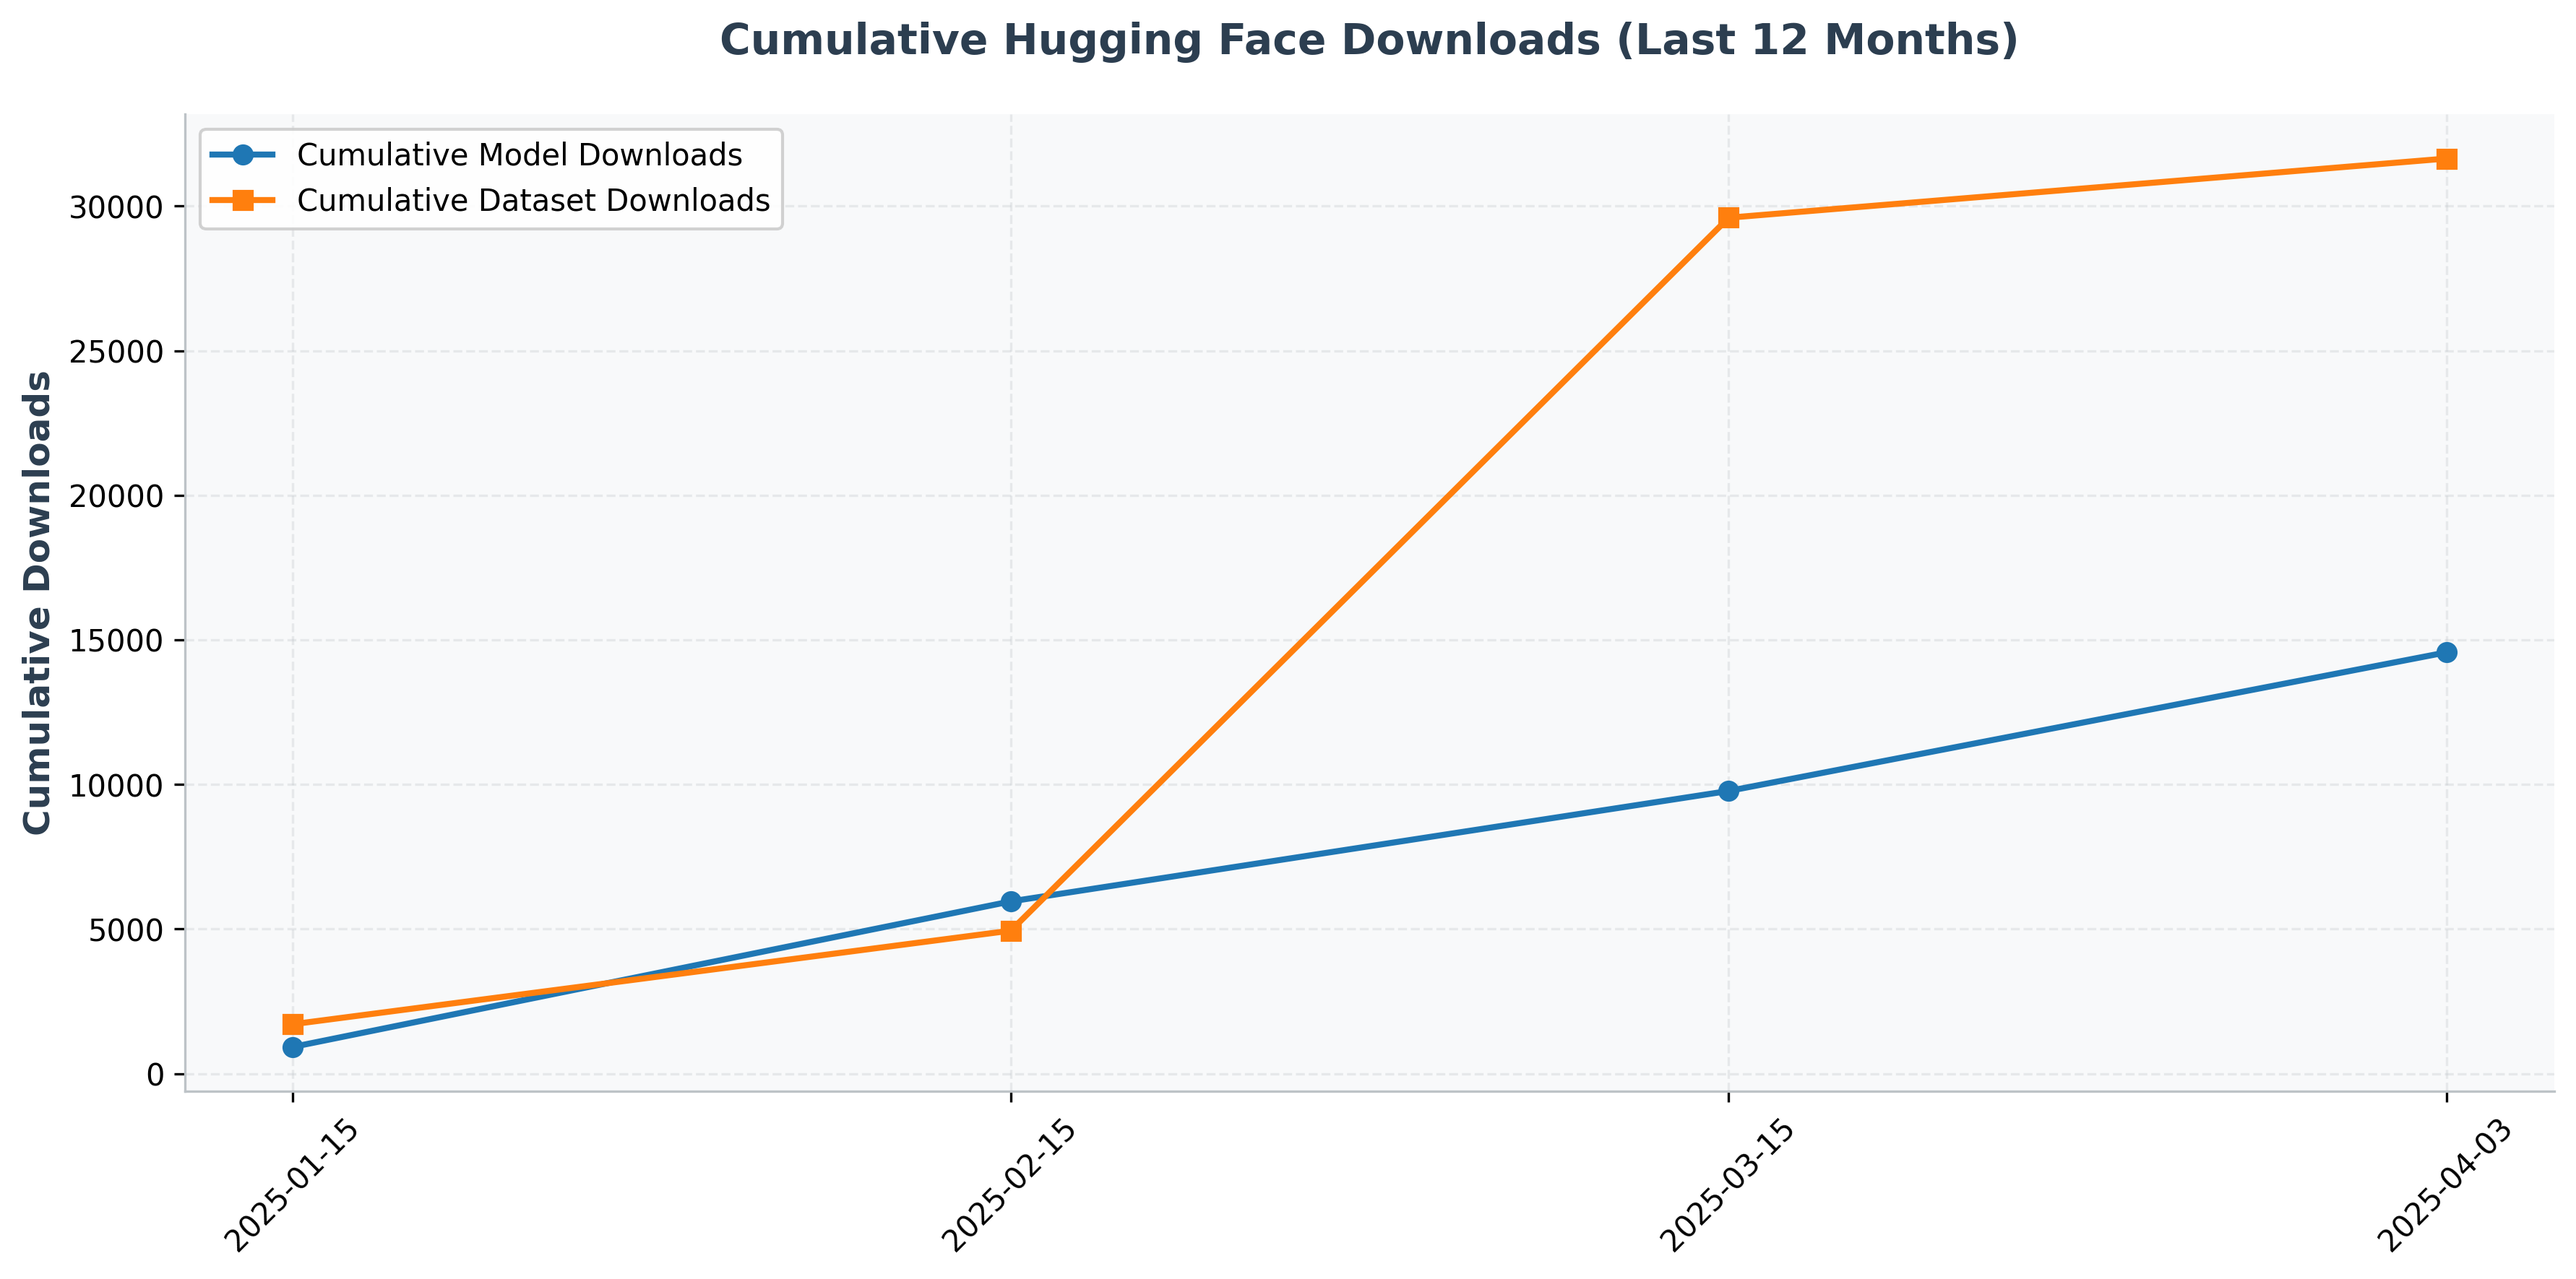
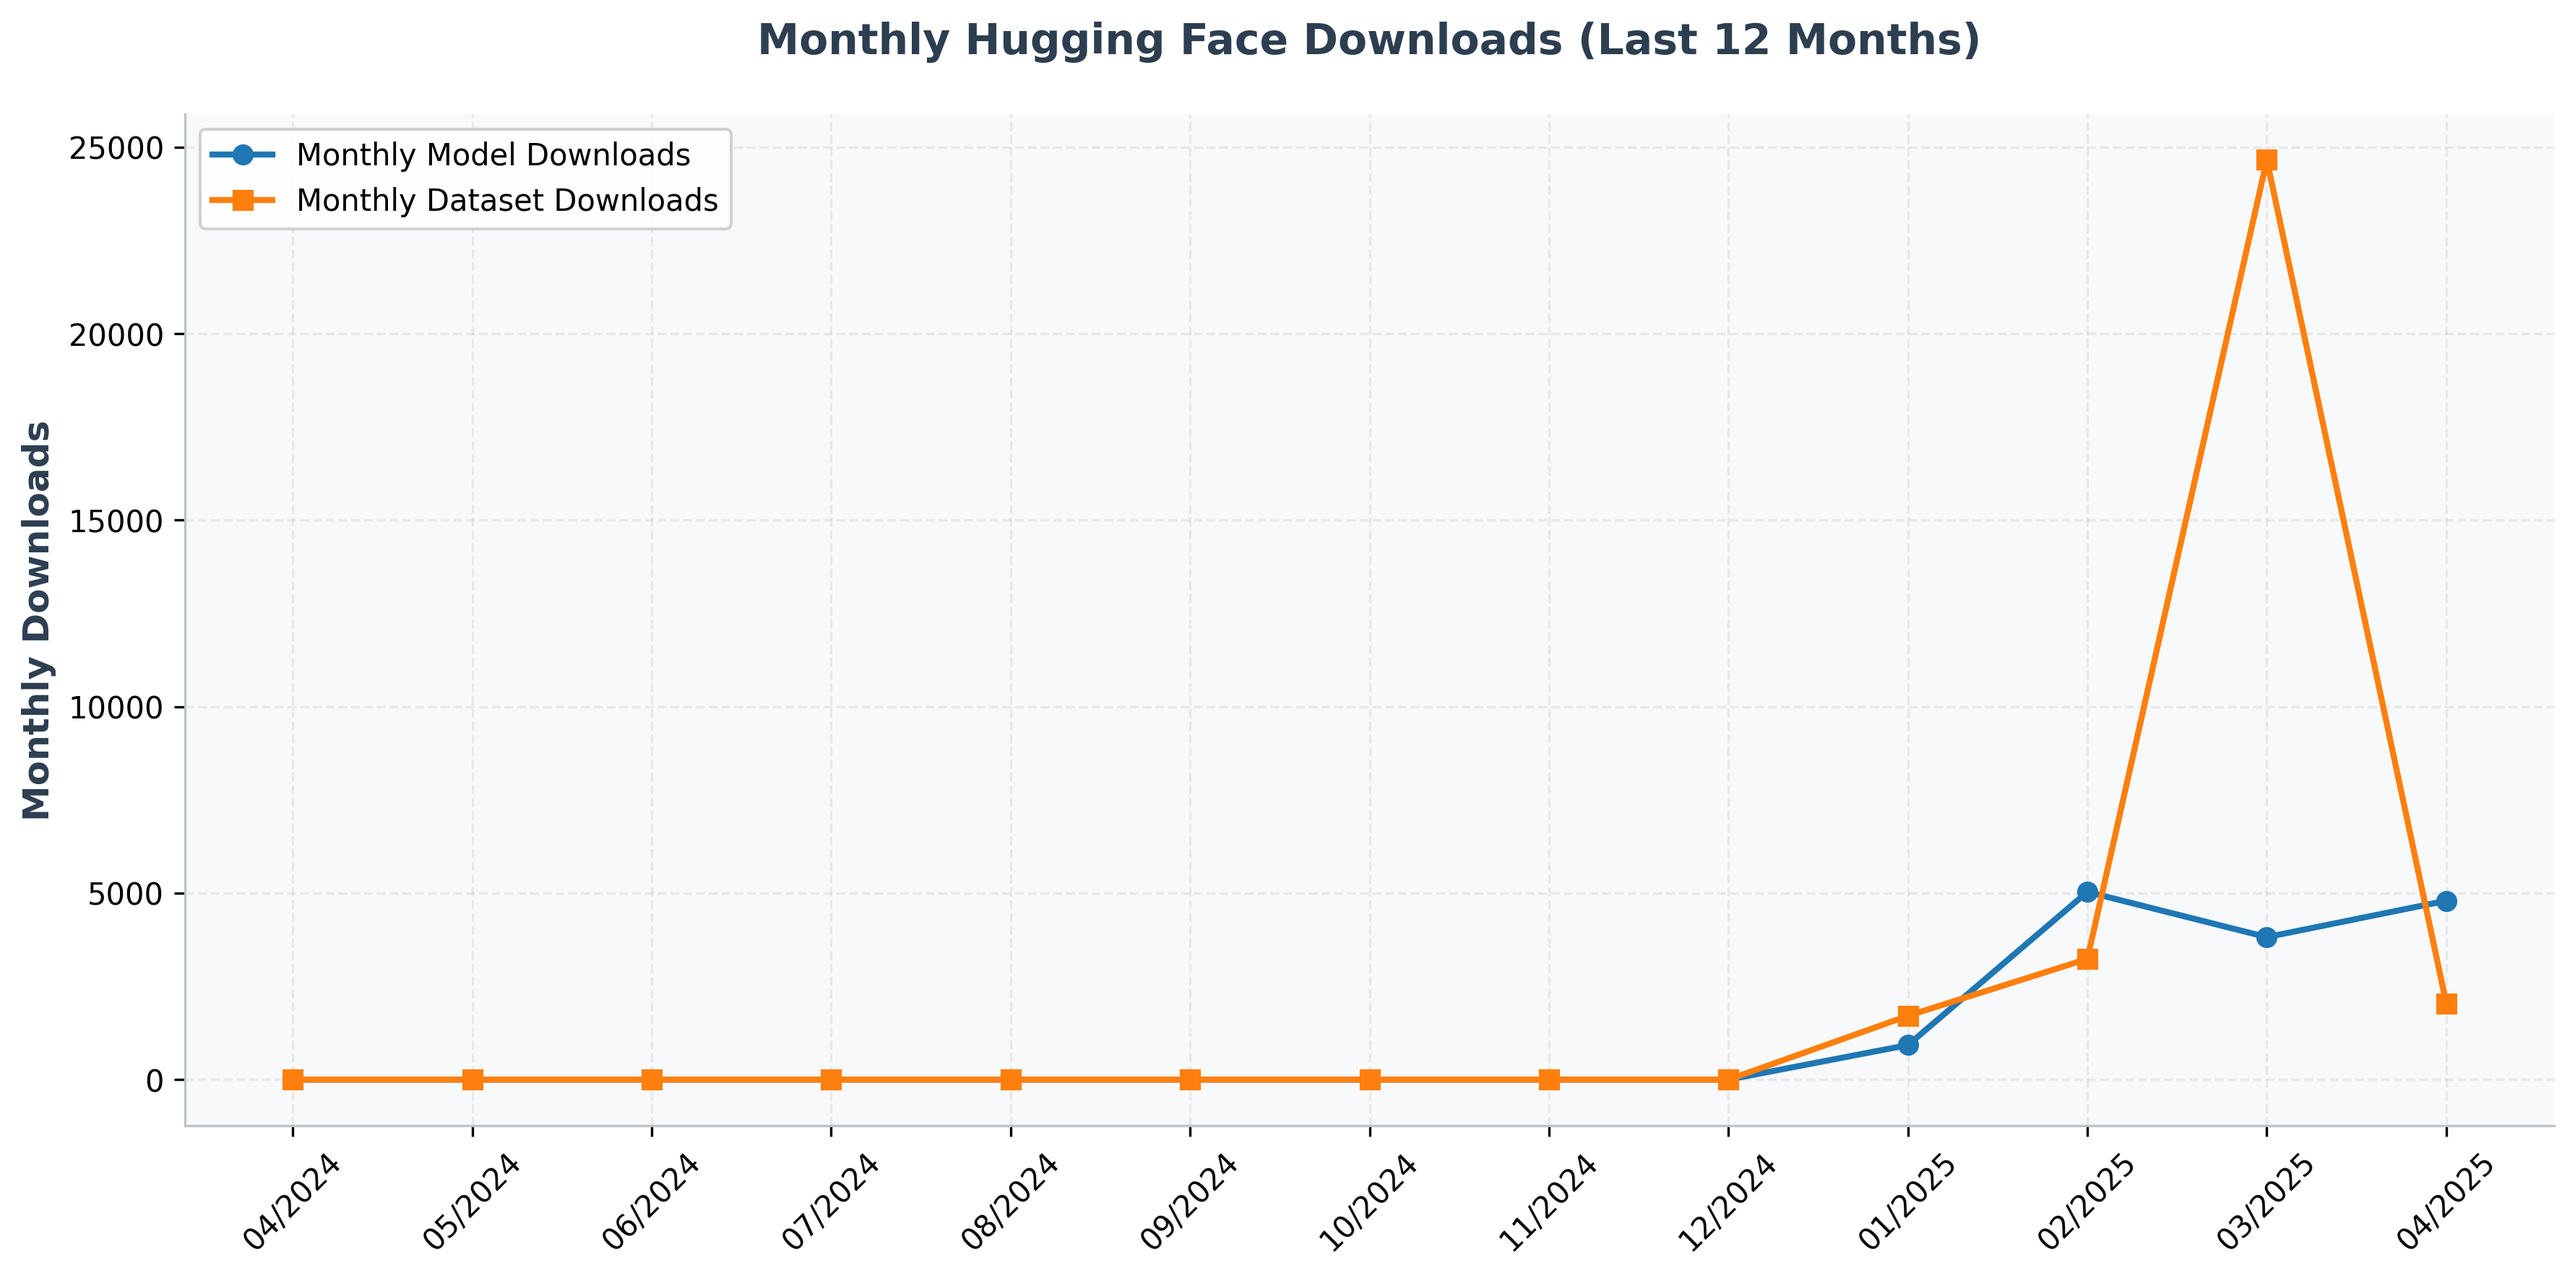
📊 Update download logging to display monthly statistics for Hugging Face models and datasets

diff --git a/log_hf_downloads.py b/log_hf_downloads.py
@@ -49,39 +49,50 @@ def draw_plot():
     today = datetime.date.today()
     twelve_months_ago = today - datetime.timedelta(days=365)
     
-    # 筛选最近12个月的日期用于显示
-    recent_dates = [d for d in all_dates if d.date() >= twelve_months_ago]
-    recent_date_strs = [d.strftime("%Y-%m-%d") for d in recent_dates]
-    x = range(len(recent_date_strs))
-
-    # 创建完整的日期字典
-    model_dict = dict(zip([d.strftime("%Y-%m-%d") for d in dates_model], values_model))
-    data_dict = dict(zip([d.strftime("%Y-%m-%d") for d in dates_data], values_data))
-
-    # 计算所有日期的累计值
-    all_date_strs = [d.strftime("%Y-%m-%d") for d in all_dates]
-    model_values = [model_dict.get(d, 0) for d in all_date_strs]
-    data_values = [data_dict.get(d, 0) for d in all_date_strs]
+    # 创建月份字典来存储每月下载量
+    monthly_model_downloads = {}
+    monthly_dataset_downloads = {}
     
-    # 计算所有历史数据的累计值
-    cumulative_model_values = []
-    cumulative_data_values = []
-    model_sum = 0
-    data_sum = 0
+    # 处理模型下载数据
+    for date, value in zip(dates_model, values_model):
+        if date.date() >= twelve_months_ago:
+            month_key = date.strftime("%Y-%m")
+            if month_key in monthly_model_downloads:
+                monthly_model_downloads[month_key] += value
+            else:
+                monthly_model_downloads[month_key] = value
     
-    for m, d in zip(model_values, data_values):
-        model_sum += m
-        data_sum += d
-        cumulative_model_values.append(model_sum)
-        cumulative_data_values.append(data_sum)
+    # 处理数据集下载数据
+    for date, value in zip(dates_data, values_data):
+        if date.date() >= twelve_months_ago:
+            month_key = date.strftime("%Y-%m")
+            if month_key in monthly_dataset_downloads:
+                monthly_dataset_downloads[month_key] += value
+            else:
+                monthly_dataset_downloads[month_key] = value
     
-    # 创建完整日期到累计值的映射
-    model_cumulative_dict = dict(zip(all_date_strs, cumulative_model_values))
-    data_cumulative_dict = dict(zip(all_date_strs, cumulative_data_values))
+    # 确保所有月份都有数据
+    all_months = []
+    current_date = twelve_months_ago
+    while current_date <= today:
+        month_key = current_date.strftime("%Y-%m")
+        all_months.append(month_key)
+        # 移动到下个月
+        if current_date.month == 12:
+            current_date = datetime.date(current_date.year + 1, 1, 1)
+        else:
+            current_date = datetime.date(current_date.year, current_date.month + 1, 1)
     
-    # 获取最近12个月的累计值
-    recent_model_values = [model_cumulative_dict.get(d, 0) for d in recent_date_strs]
-    recent_data_values = [data_cumulative_dict.get(d, 0) for d in recent_date_strs]
+    # 排序月份
+    all_months.sort()
+    
+    # 获取每月的下载量
+    model_monthly_values = [monthly_model_downloads.get(month, 0) for month in all_months]
+    dataset_monthly_values = [monthly_dataset_downloads.get(month, 0) for month in all_months]
+    
+    # 美化月份标签显示
+    display_months = [f"{month[-2:]}/{month[:4]}" for month in all_months]
+    x = range(len(display_months))
 
     plt.figure(figsize=(12, 6))
     
@@ -93,15 +104,15 @@ def draw_plot():
     plt.gcf().set_facecolor('white')
     
     # 绘制折线图
-    plt.plot(x, recent_model_values, label="Cumulative Model Downloads", color="#1f77b4", linewidth=2, marker='o', markersize=6)
-    plt.plot(x, recent_data_values, label="Cumulative Dataset Downloads", color="#ff7f0e", linewidth=2, marker='s', markersize=6)
+    plt.plot(x, model_monthly_values, label="Monthly Model Downloads", color="#1f77b4", linewidth=2, marker='o', markersize=6)
+    plt.plot(x, dataset_monthly_values, label="Monthly Dataset Downloads", color="#ff7f0e", linewidth=2, marker='s', markersize=6)
 
     # 设置x轴标签
-    plt.xticks(ticks=x, labels=recent_date_strs, rotation=45)
+    plt.xticks(ticks=x, labels=display_months, rotation=45)
     
     # 设置y轴标签和标题
-    plt.ylabel("Cumulative Downloads", fontsize=12, fontweight='bold', color='#2c3e50')
-    plt.title("Cumulative Hugging Face Downloads (Last 12 Months)", fontsize=14, fontweight='bold', pad=20, color='#2c3e50')
+    plt.ylabel("Monthly Downloads", fontsize=12, fontweight='bold', color='#2c3e50')
+    plt.title("Monthly Hugging Face Downloads (Last 12 Months)", fontsize=14, fontweight='bold', pad=20, color='#2c3e50')
     
     # 添加图例
     plt.legend(fontsize=10, loc='upper left', framealpha=0.9)
